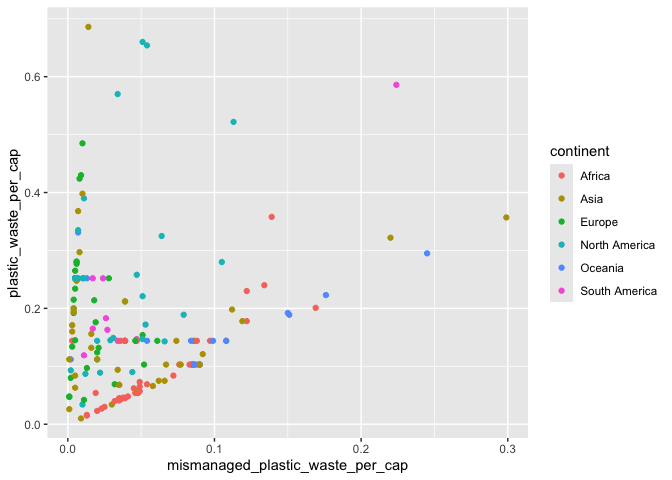
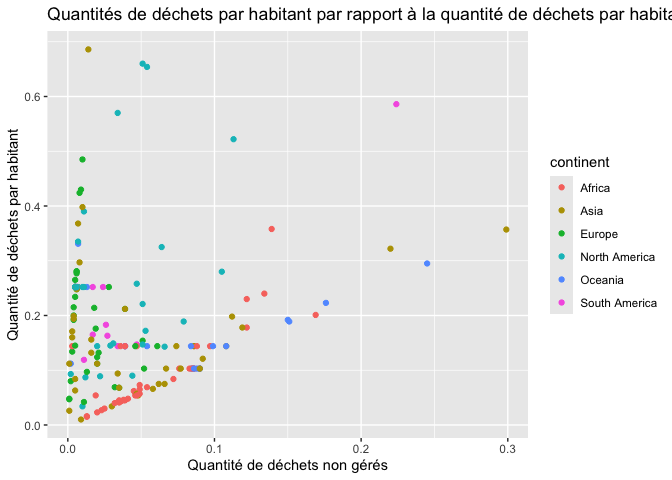
Questionnaire complété

diff --git a/lab-02.md b/lab-02.md
@@ -27,17 +27,20 @@ plastic_waste <- plastic_waste %>%
 
 ``` r
 ggplot(data=plastic_waste %>% filter(plastic_waste_per_cap < 3.5), aes(x=plastic_waste_per_cap)) +
-geom_histogram(binwidth=0.2) +
-facet_wrap(~continent)
+geom_histogram(binwidth=0.2) + facet_wrap(~continent) + labs(title = "Distribution des quantités de déchets par habitant" , x= "Quantité de déchets par habitant", y= "Nombre")
 ```
 
-![](lab-02_files/figure-gfm/plastic-waste-continent-1.png)<!-- -->
+![](lab-02_files/figure-gfm/plastic-waste-continent-1.png)<!-- --> On
+voit que pour l’Afrique, l’Asie, l’Europe et l’Amérique du nord, la
+quantité de déchets par habitant est plus faible pour la majorité de la
+population. Pour ce qui est de l’Océanie et l’Amérique du sud, la
+quantité de déchets produits par habitant est plus élevé pour la
+majorité de la population.
 
 ### Exercise 2
 
 ``` r
-ggplot(data=plastic_waste %>% filter(plastic_waste_per_cap < 3.5), aes(x=plastic_waste_per_cap, color=continent,fill=continent)) +
-  geom_density(alpha=0.25)
+ggplot(data=plastic_waste %>% filter(plastic_waste_per_cap < 3.5), aes(x=plastic_waste_per_cap, color=continent,fill=continent)) + geom_density(alpha=0.25) + labs(title = "Distribution en densité des quantités de déchets par habitant" , x= "Quantité de déchets par habitant", y= "Densité")
 ```
 
 ![](lab-02_files/figure-gfm/plastic-waste-density-1.png)<!-- -->
@@ -56,7 +59,7 @@ variable choisie.
 Boxplot:
 
 ``` r
-ggplot(data=plastic_waste %>% filter(plastic_waste_per_cap < 3.5), aes(x=continent, y=plastic_waste_per_cap)) + geom_boxplot()
+ggplot(data=plastic_waste %>% filter(plastic_waste_per_cap < 3.5), aes(x=continent, y=plastic_waste_per_cap)) + geom_boxplot() + labs(title = "Quantités de déchets par habitant par continents" , x= "Continents", y= "Quantité de déchets par habitant")
 ```
 
 ![](lab-02_files/figure-gfm/plastic-waste-boxplot-1.png)<!-- -->
@@ -64,7 +67,8 @@ ggplot(data=plastic_waste %>% filter(plastic_waste_per_cap < 3.5), aes(x=contine
 Violin plot:
 
 ``` r
-ggplot(data=plastic_waste %>% filter(plastic_waste_per_cap < 3.5), aes(x=continent, y=plastic_waste_per_cap)) + geom_violin()
+ggplot(data=plastic_waste %>% filter(plastic_waste_per_cap < 3.5), aes(x=continent, y=plastic_waste_per_cap)) + geom_violin() + 
+labs(title = "Quantités de déchets par habitant par continents" , x= "Continents", y= "Quantité de déchets par habitant")
 ```
 
 ![](lab-02_files/figure-gfm/plastic-waste-violin-1.png)<!-- -->
@@ -80,7 +84,7 @@ sortent de la boîte.
 ### Exercise 4
 
 ``` r
-ggplot(data=plastic_waste %>% filter(plastic_waste_per_cap < 3.5), aes(x=mismanaged_plastic_waste_per_cap, y=plastic_waste_per_cap, color=continent)) + geom_point()
+ggplot(data=plastic_waste %>% filter(plastic_waste_per_cap < 3.5), aes(x=mismanaged_plastic_waste_per_cap, y=plastic_waste_per_cap, color=continent)) + geom_point() + labs(title = "Quantités de déchets par habitant par rapport à la quantité de déchets par habitant qui sont non gérés" , x= "Quantité de déchets non gérés", y= "Quantité de déchets par habitant")
 ```
 
 ![](lab-02_files/figure-gfm/plastic-waste-mismanaged-1.png)<!-- -->
@@ -97,7 +101,7 @@ déchets bien et mal gérés par les différents pays.
 ### Exercise 5
 
 ``` r
-ggplot(data=plastic_waste %>% filter(plastic_waste_per_cap < 3.5), aes(x=plastic_waste_per_cap, y=total_pop,color=continent)) + geom_point()
+ggplot(data=plastic_waste %>% filter(plastic_waste_per_cap < 3.5), aes(x=plastic_waste_per_cap, y=total_pop,color=continent)) + geom_point() + labs(title = "Quantités de déchets par habitant par rappport à la population totale" , x= "Quantité de déchets par habitant", y= "Population totale")
 ```
 
     ## Warning: Removed 10 rows containing missing values or values outside the scale range
@@ -106,7 +110,7 @@ ggplot(data=plastic_waste %>% filter(plastic_waste_per_cap < 3.5), aes(x=plastic
 ![](lab-02_files/figure-gfm/plastic-waste-population-total-1.png)<!-- -->
 
 ``` r
-ggplot(data=plastic_waste %>% filter(plastic_waste_per_cap < 3.5), aes(x=plastic_waste_per_cap, y=coastal_pop, color=continent)) + geom_point()
+ggplot(data=plastic_waste %>% filter(plastic_waste_per_cap < 3.5), aes(x=plastic_waste_per_cap, y=coastal_pop, color=continent)) + geom_point() + labs(title = "Quantités de déchets par habitant par rappport à la population côtière" , x= "Quantité de déchets par habitant", y= "Population côtière")
 ```
 
 ![](lab-02_files/figure-gfm/plastic-waste-population-coastal-1.png)<!-- -->
@@ -116,10 +120,38 @@ bord de l’eau où la population a moins tendance à produire beaucoup de
 déchets par habitant que si l’on regarde le graphique contenant
 l’entièreté de la population.
 
+Sur le premier graphique, la taille totale de la population ne semble
+pas expliquer directement la quantité de déchets plastiques produites
+par habitant. Toutefois, sur le deuxième graphique, on considère
+seulement la population côtière et on voit que les pays avec de très
+grandes populations côtières produisent généralement moins de déchets
+plastiques par habitant. Il y a plus de point vers le haut du graphique.
+
 ## Conclusion
 
 Recréez la visualisation:
 
 ``` r
-# insert code here
+ggplot(data=plastic_waste %>% mutate(coastal_pop_prop = coastal_pop / total_pop)%>% filter(plastic_waste_per_cap < 3), aes(x=coastal_pop_prop, y=plastic_waste_per_cap, color=continent)) + geom_point()+ geom_smooth(method = "loess",se = TRUE,color = "black",fill = "grey")+ labs(title = "Quantité de déchet plastique vs la Proportion de la population côtière" ,subtitle = "Selon le continent", x= "Proportion de la population côtière (Coastal/total population)", y= "Nombre de déchets plastiques par habitant")
 ```
+
+    ## `geom_smooth()` using formula = 'y ~ x'
+
+    ## Warning: Removed 10 rows containing non-finite outside the scale range
+    ## (`stat_smooth()`).
+
+    ## Warning: Removed 10 rows containing missing values or values outside the scale range
+    ## (`geom_point()`).
+
+![](lab-02_files/figure-gfm/recreate-viz-1.png)<!-- --> Interprétation
+En regardant la courbe de tendance, on peut conclure que plus la
+proportion de la population côtière augmente, plus le nombre de déchets
+produits par habitant augmente, mais très légèrement. Justement, puisque
+la variation de la ligne n’est pas très grande, on peut aussi conclure
+que la relation entre les deux variable n’est pas super forte. Il y a
+une variation, mais elle n’est pas très grande. On peut voir que pour le
+continent de l’Afrique, les point se situent majoritairement dans une
+faible quantité de déchet peu importe l’emplacement de la ville et que
+pour l’Amérique du nord, l’Europe et l’Asie, la majorité des quantités
+de déchet par habitant est plus élevé et s’éloigne de la courbe de
+tendance.
